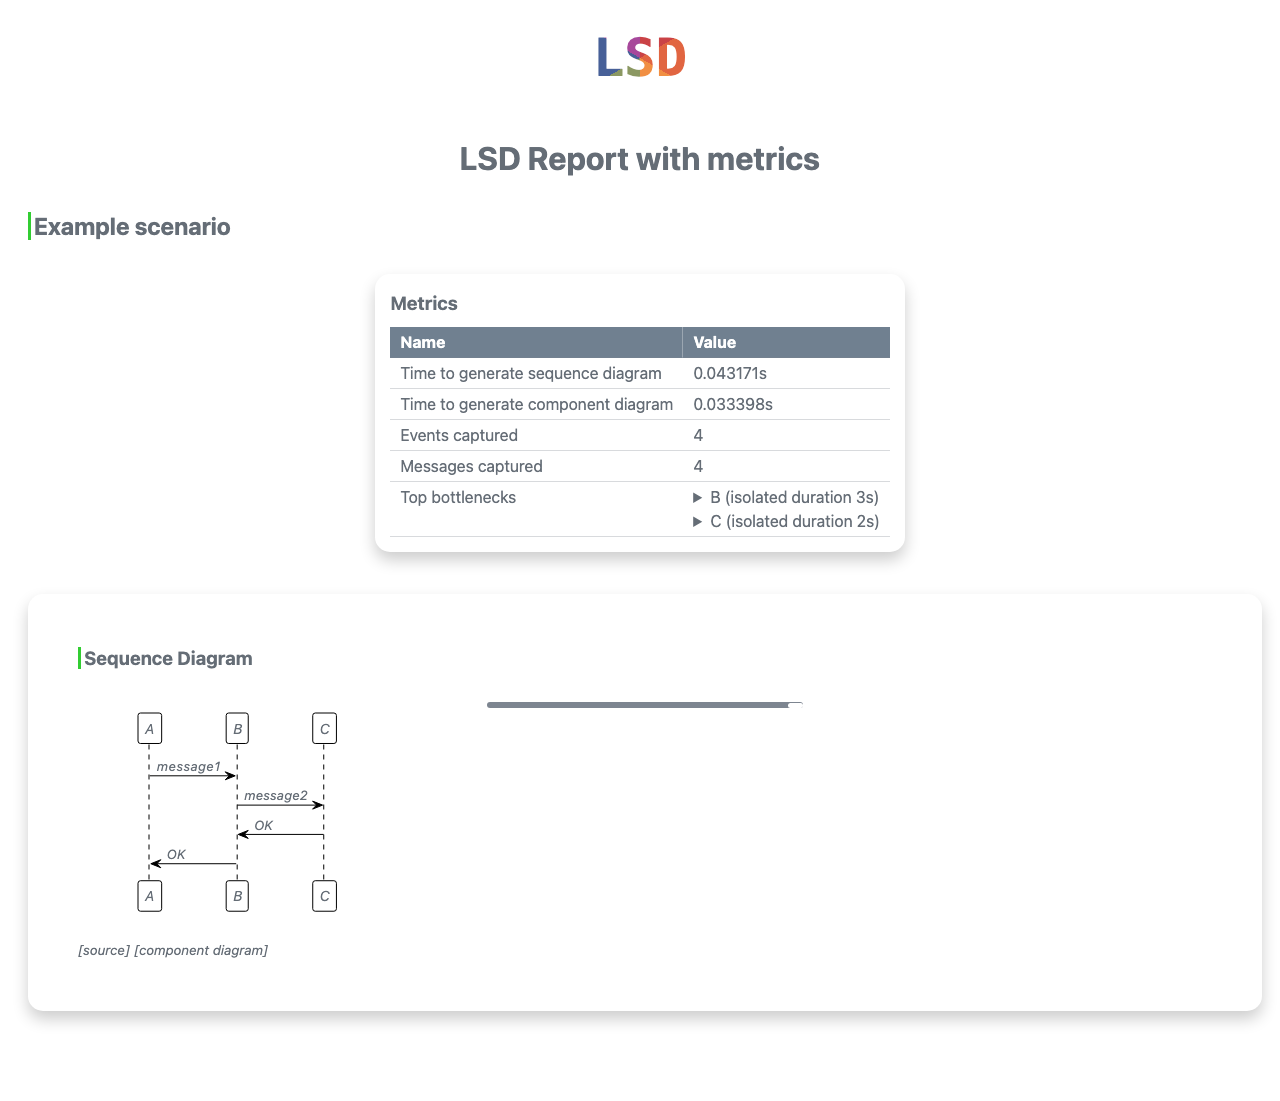
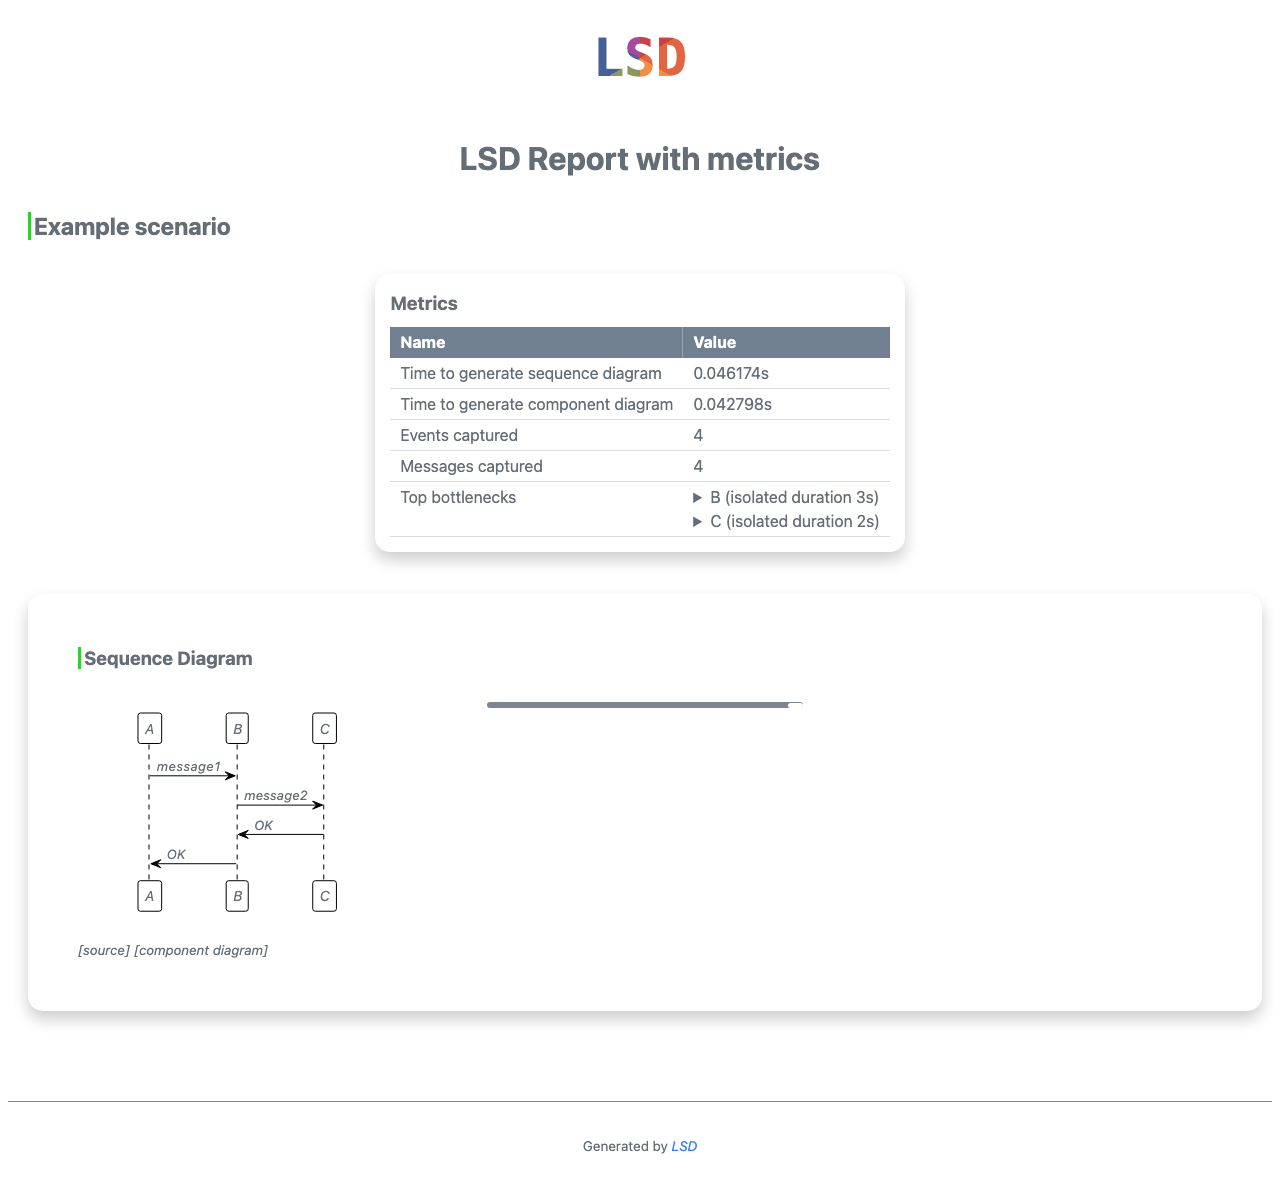
fix: add a footer with link to lsd-core repo

diff --git a/src/test/java/com/lsd/core/report/approval/LsdContextTest.createsReportWithScenariosInDevMode.approved.html b/src/test/java/com/lsd/core/report/approval/LsdContextTest.createsReportWithScenariosInDevMode.approved.html
@@ -470,6 +470,20 @@ input[type="range"]::-moz-range-thumb {
     cursor: pointer;
 }
 
+/* Report footer */
+.report-footer {
+    text-align: center;
+    padding: 20px;
+    margin-top: 40px;
+    border-top: 1px solid var(--color-border);
+    font-size: 0.85em;
+    color: var(--color-text-secondary);
+}
+
+.report-footer a {
+    color: var(--color-5);
+}
+
 </style>
 
 </head>
@@ -1438,5 +1452,8 @@ function scrollIntoViewFor(id) {
         highlightKeywords();highlightFact("30", "Lorem");highlightFact("33", "XYZ");
         unMarkSvg();
     </script>
+    <div class="report-footer">
+        <p>Generated by <a href="https://github.com/lsd-consulting/lsd-core" target="_blank" rel="noopener noreferrer">LSD</a></p>
+    </div>
 </footer>
 </html>

diff --git a/src/main/resources/static/style.css b/src/main/resources/static/style.css
@@ -464,3 +464,17 @@ input[type="range"]::-moz-range-thumb {
     background: var(--color-background-primary);
     cursor: pointer;
 }
+
+/* Report footer */
+.report-footer {
+    text-align: center;
+    padding: 20px;
+    margin-top: 40px;
+    border-top: 1px solid var(--color-border);
+    font-size: 0.85em;
+    color: var(--color-text-secondary);
+}
+
+.report-footer a {
+    color: var(--color-5);
+}

diff --git a/src/test/java/com/lsd/core/report/approval/LsdContextTest.createsReportWithScenarios.approved.html b/src/test/java/com/lsd/core/report/approval/LsdContextTest.createsReportWithScenarios.approved.html
@@ -860,5 +860,8 @@ remove @unlinked
         highlightKeywords();highlightFact("30", "Lorem");highlightFact("33", "XYZ");
         unMarkSvg();
     </script>
+    <div class="report-footer">
+        <p>Generated by <a href="https://github.com/lsd-consulting/lsd-core" target="_blank" rel="noopener noreferrer">LSD</a></p>
+    </div>
 </footer>
 </html>
